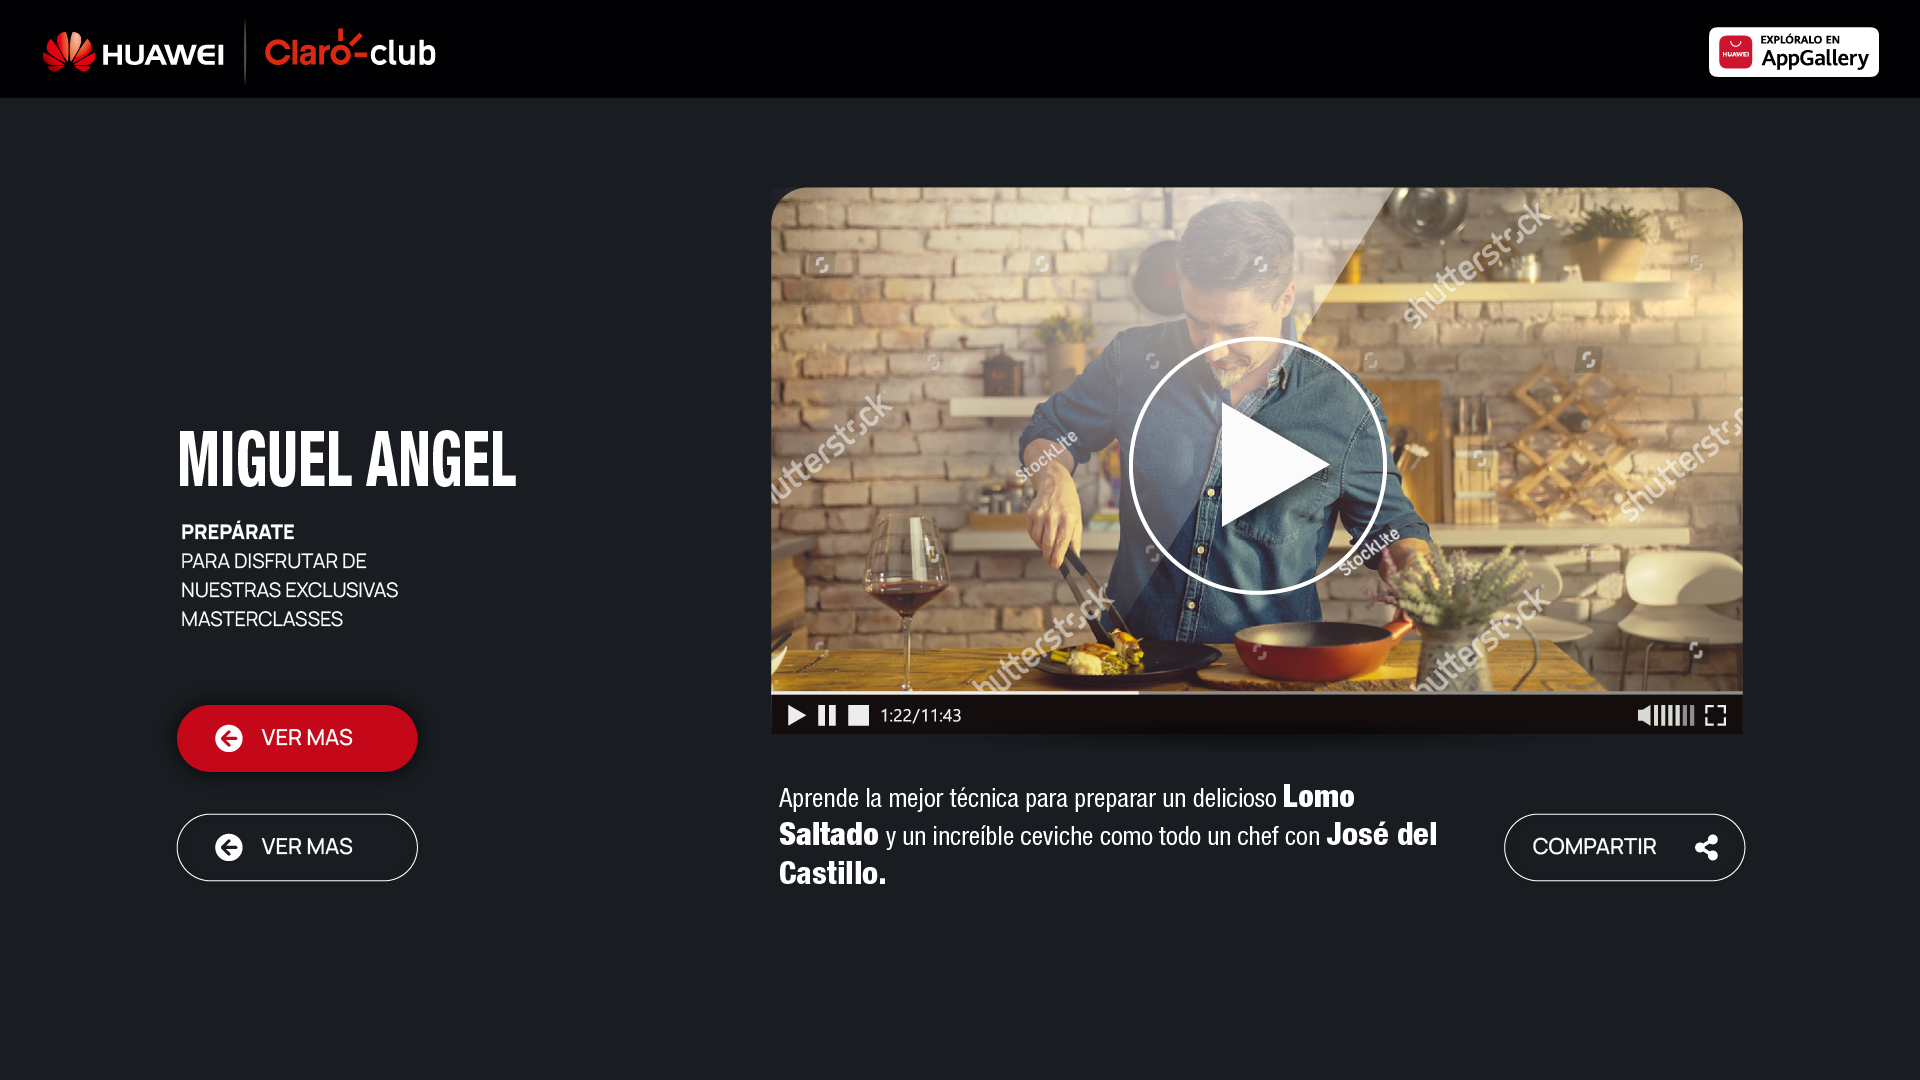
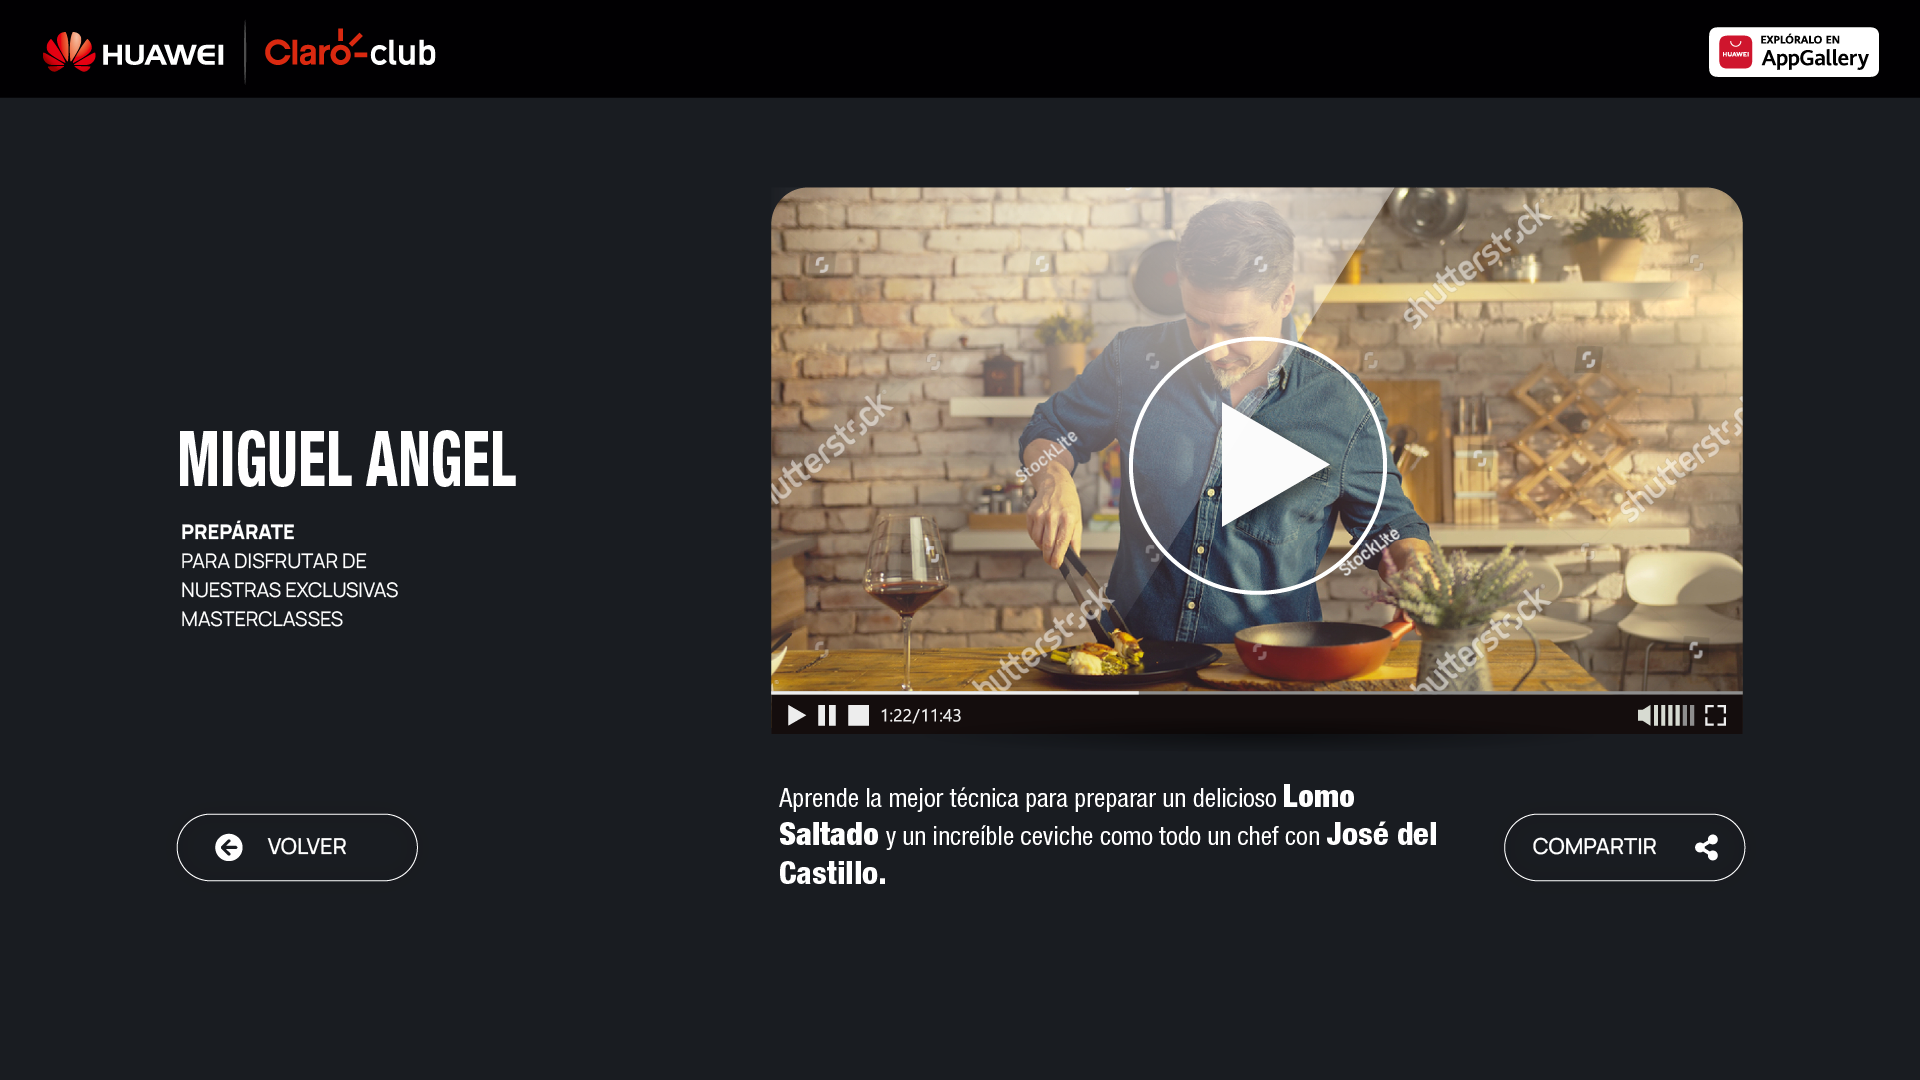
commit

Changed region(s): [[0.0938, 0.6417, 0.2188, 0.7333], [0.125, 0.7639, 0.1875, 0.7944]]

diff --git a/4.html b/4.html
@@ -15,14 +15,14 @@
 
 		.btn{
 			display: block;
-			width: 200px;
+			width: 160px;
 			height: 40px;
 			position: absolute;
 		}
 
 		#uno{
-			top: 575px;
-			left: 166px;
+			top: 720px;
+			left: 180px;
 		}
 
 		#dos{
@@ -33,8 +33,7 @@
 	</style>
 </head>
 <body>
-<img src="image/1.png">
-<a href="2.html" class="btn" id="uno"></a>
-<a href="5.html" class="btn" id="dos"></a>
+<img src="image/4.png">
+<a href="index.html" class="btn" id="uno"></a>
 </body>
 </html>

diff --git a/3.html b/3.html
@@ -15,14 +15,14 @@
 
 		.btn{
 			display: block;
-			width: 200px;
+			width: 160px;
 			height: 40px;
 			position: absolute;
 		}
 
 		#uno{
-			top: 575px;
-			left: 166px;
+			top: 730px;
+			left: 610px;
 		}
 
 		#dos{
@@ -33,8 +33,7 @@
 	</style>
 </head>
 <body>
-<img src="image/1.png">
-<a href="2.html" class="btn" id="uno"></a>
-<a href="5.html" class="btn" id="dos"></a>
+<img src="image/3.png">
+<a href="4.html" class="btn" id="uno"></a>
 </body>
 </html>

diff --git a/5.html b/5.html
@@ -15,14 +15,14 @@
 
 		.btn{
 			display: block;
-			width: 200px;
+			width: 340px;
 			height: 40px;
 			position: absolute;
 		}
 
 		#uno{
-			top: 575px;
-			left: 166px;
+			top: 600px;
+			left: 666px;
 		}
 
 		#dos{
@@ -33,8 +33,7 @@
 	</style>
 </head>
 <body>
-<img src="image/1.png">
-<a href="2.html" class="btn" id="uno"></a>
-<a href="5.html" class="btn" id="dos"></a>
+<img src="image/5.png">
+<a href="3.html" class="btn" id="uno"></a>
 </body>
 </html>

diff --git a/2.html b/2.html
@@ -33,8 +33,7 @@
 	</style>
 </head>
 <body>
-<img src="image/1.png">
-<a href="2.html" class="btn" id="uno"></a>
+<img src="image/2.png">
 <a href="5.html" class="btn" id="dos"></a>
 </body>
 </html>
